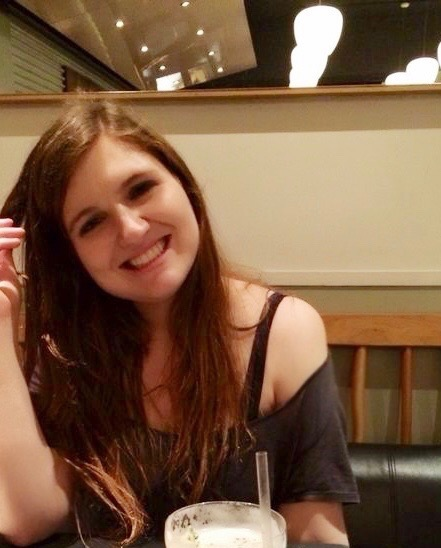
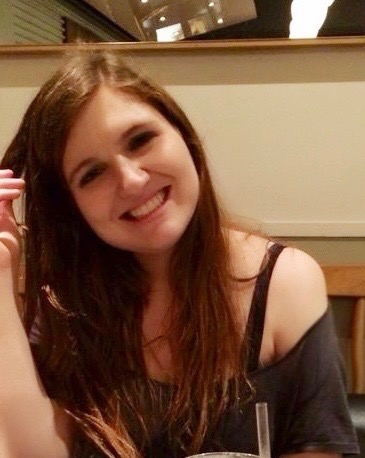
Added basic styling

diff --git a/styles.css b/styles.css
@@ -10,3 +10,19 @@
   line-height: inherit;
   color: inherit;
 }
+body {
+  font-family: "Helvetica Neue", Helvetica, sans-serif;
+  font-size: 20px;
+  line-height: 30px;
+  color:#444;
+  text-align: center;
+  text-shadow: 1px 1px 0 #fff;
+}
+h1 {
+  font-size: 36px;
+  line-height: 50px;
+  font-weight: bold;
+}
+img {
+  border-radius: 10%;
+}
